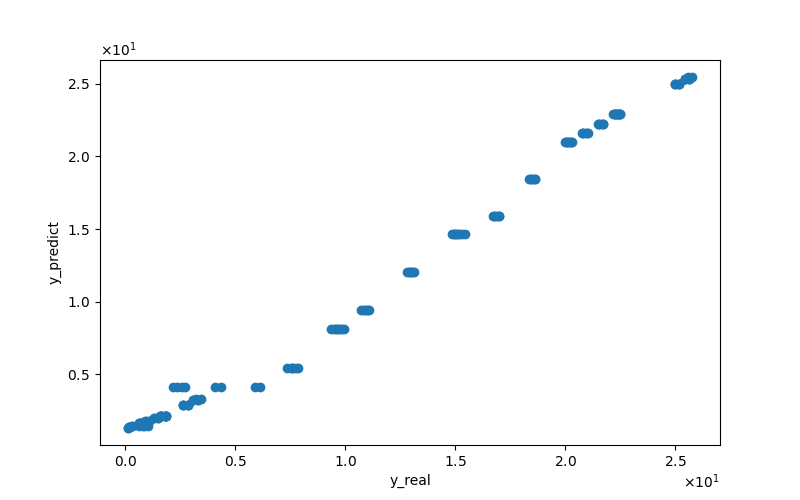
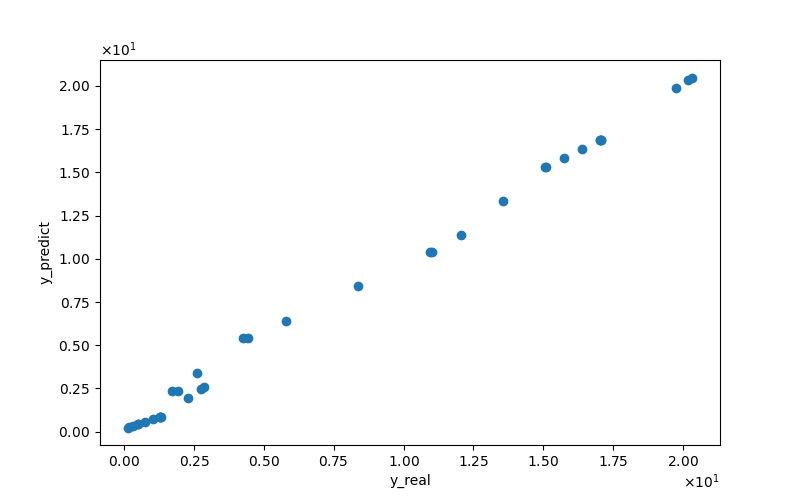
cuda computation predict

diff --git a/毕设3_中间变量传输/11_computation_time.py b/毕设3_中间变量传输/11_computation_time.py
@@ -1,5 +1,5 @@
 import time
-
+from sklearn.preprocessing import MinMaxScaler
 import joblib
 
 import function
@@ -7,6 +7,7 @@ import functionImg
 import model_features
 import a1_alexNet
 import torch
+import torch.nn as nn
 import numpy as np
 
 
@@ -25,6 +26,8 @@ def show_FLOPs_features_gpu(model,x,device="cuda",epoch=300,save_flag=False,Path
 
     for i in range(model_len):
         layer = model[i]
+        if isinstance(layer, nn.ReLU) or isinstance(layer, nn.BatchNorm2d) or isinstance(layer, nn.Dropout):
+            continue
         now_x, myTime = function.recordTimeGpu(layer, now_x, device, epoch)
         time.sleep(1)
         flops = model_features.get_layer_FLOPs(layer, now_x)
@@ -49,10 +52,11 @@ def show_FLOPs_features_gpu(model,x,device="cuda",epoch=300,save_flag=False,Path
     return flops_list,params_list,time_list
 
 
+
 def get_predict_data(save_flag = False):
     save_flag = save_flag
     path = "../res/computation_time.xls"
-    sheet_name = "cuda"
+    sheet_name = "cuda_one"
     value = [["flops", "params","flops2","params2","times",]]
     if save_flag:
         function.create_excel_xsl(path, sheet_name, value)
@@ -61,16 +65,17 @@ def get_predict_data(save_flag = False):
     flops = []
     params = []
     times = []
-    for i in range(2):
+    for i in range(1):
         for i in range(1, 3):
+        # for i in range(2, 3):
             model = function.getDnnModel(i)
             model = model.to(device)
 
             x = torch.rand(size=(1, 3, 224, 224))
             x = x.to(device)
 
-            if i == 1:
-                function.warmUpGpu(model, x, device)
+
+            function.warmUpGpu(model, x, device)
 
             # function.show_features_gpu(alexnet,x)
             my_flops, my_params, my_times = show_FLOPs_features_gpu(model,x,save_flag=save_flag,Path=path,sheetname=sheet_name)
@@ -78,20 +83,45 @@ def get_predict_data(save_flag = False):
             params.extend(my_params)
             times.extend(my_times)
 
+
+
+
+
+
+
+def get_predict_model():
+    mm = MinMaxScaler()
+    path = "../res/computation_time.xls"
+    sheet_name = "cuda_one"
+
+    flops = function.get_excel_data(path,sheet_name,"flops")
+    flops2 = function.get_excel_data(path,sheet_name,"flops2")
+    params = function.get_excel_data(path,sheet_name,"params")
+    params2 = function.get_excel_data(path,sheet_name,"params2")
+    times = function.get_excel_data(path,sheet_name,"times")
+
     flops = np.array(flops)
+    flops2 = np.array(flops2)
     params = np.array(params)
+    params2 = np.array(params2)
     times = np.array(times)
 
     # functionImg.getScatterImg(flops,times,"flops","times(ms)")
+    # functionImg.getScatterImg(flops2,times,"flops2","times(ms)")
     # functionImg.getScatterImg(params,times,"params","times(ms)")
+    # functionImg.getScatterImg(params2,times,"params2","times(ms)")
 
-    # model_Path = "../model/flops_time_cuda.m"
-    # functionImg.myPolynomialRegression_single(flops,times,"flops","times(ms)",degree=2,save=False,modelPath="../model/flops_time_cuda.m")
-    # functionImg.myPolynomialRegression_single(flops,times,"flops","times(ms)",degree=3)
+    save = False
+    # functionImg.myPolynomialRegression_single(flops2,times,"flops","times(ms)",degree=2,save=save,
+    #                                           modelPath="../model/flops_time_cuda.m")
+    # functionImg.myPolynomialRegression_single(flops2,times,"flops","times(ms)",degree=3)
+
+    functionImg.myPolynomialRegression_single(flops2, times, "flops", "times(ms)", degree=2, save=save,
+                                              modelPath="../model/flops_time_cuda.m")
     #
-    # ones = torch.ones(len(flops))
-    # x = np.c_[ones,flops,params]
-    # functionImg.myPolynomialRegression(x,times,"y_real","y_predict",save=False,modelPath="../model/flops_params_time_cuda.m")
+    ones = torch.ones(len(flops))
+    x = np.c_[ones,flops2,params2]
+    functionImg.myPolynomialRegression(x,times,"y_real","y_predict",save=save,modelPath="../model/flops_params_time_cuda.m")
 
 
 
@@ -119,6 +149,8 @@ def compare_alexnet():
     index = 0
     for i in range(len(model)):
         layer = model[i]
+        if isinstance(layer, nn.ReLU) or isinstance(layer, nn.BatchNorm2d) or isinstance(layer, nn.Dropout):
+            continue
         now_x, myTime = function.recordTimeGpu(layer, now_x, device, epoch)
         time.sleep(1)
         flops = model_features.get_layer_FLOPs(layer, now_x)
@@ -131,9 +163,9 @@ def compare_alexnet():
         print(f"{index} - {layer}   computation number : {flops} \t params : {params} \t layer computation time : {myTime:.3f} (ms)")
 
 
-        print(f"flops: {flops_sum}  \t  params: {params_sum}  \t  computation time: {computation_time:.3f} (ms)")
-        print(f"flops predict : {functionImg.predictFlopsTime(flops_predict_model,flops_sum):.3f} \t "
-              f"flops params predict : {functionImg.predictFlopsParamsTime(flops_params_predict_model,flops_sum,params_sum):.3f}")
+        print(f"flops: {flops_sum}  \t  params: {params_sum}  \t  computation time: {computation_time:.3f} (ms) \t "
+              f"flops predict : {functionImg.predictFlopsTime(flops_predict_model,flops_sum/10000):.3f} \t "
+              f"flops params predict : {functionImg.predictFlopsParamsTime(flops_params_predict_model,flops_sum/10000,params_sum/10000):.3f}")
         print("=============================================================")
         index += 1
 
@@ -143,8 +175,11 @@ def compare_alexnet():
 
 if __name__ == '__main__':
     save_flag = True
-    get_predict_data(save_flag)
-    # compare_alexnet()
+    # get_predict_data(save_flag)
+
+    # get_predict_model()
+
+    compare_alexnet()
 
 
 

diff --git a/毕设3_中间变量传输/functionImg.py b/毕设3_中间变量传输/functionImg.py
@@ -3,7 +3,7 @@ import numpy as np
 import torch
 from sklearn.linear_model import LinearRegression
 from sklearn import metrics
-from sklearn.preprocessing import PolynomialFeatures
+from sklearn.preprocessing import PolynomialFeatures, MinMaxScaler
 from sklearn.linear_model import Ridge
 import joblib
 
@@ -325,7 +325,9 @@ def predictConv2dTime(model,conv2d,input_data):
 
 
 def predictFlopsTime(model,flops):
-    input_features = myTransform(np.array([flops]), degree=2)
+    flops = np.array(flops)
+
+    input_features = myTransform(flops, degree=2)
     computation_time = model.predict(input_features)[0]
     return computation_time
 
@@ -333,6 +335,7 @@ def predictFlopsTime(model,flops):
 def predictFlopsParamsTime(model,flops,params):
     flops = np.array(flops)
     params = np.array(params)
+
     ones = torch.ones(1)
     input_features = np.c_[ones,flops,params]
     computation_time = model.predict(input_features)[0]
